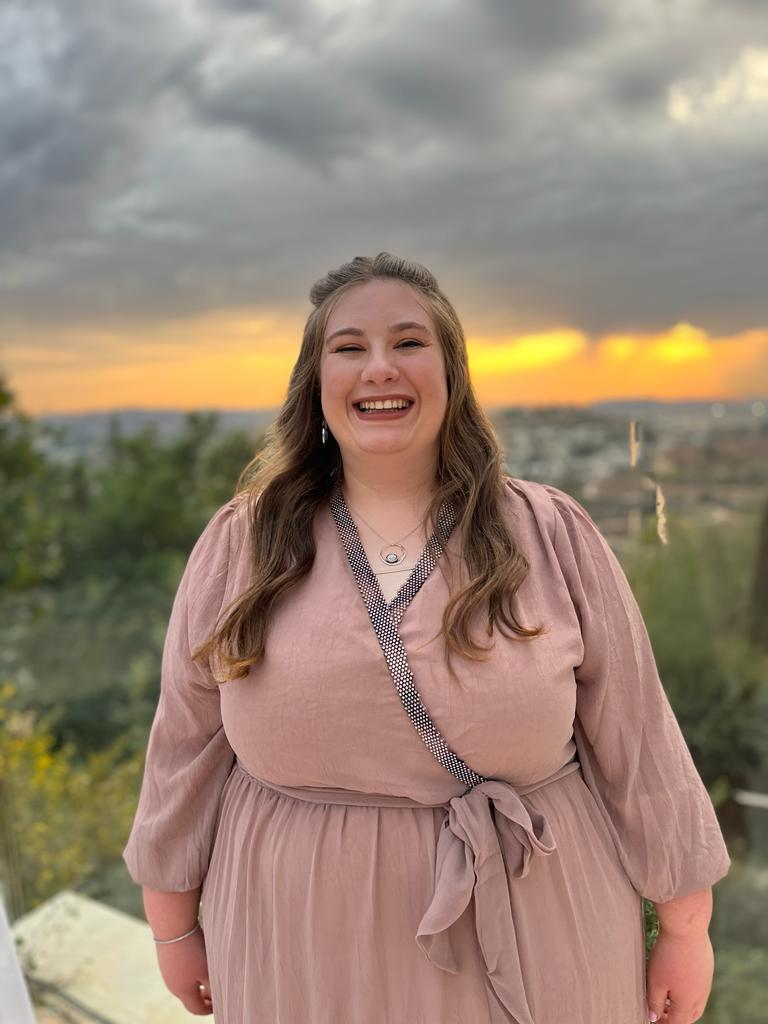
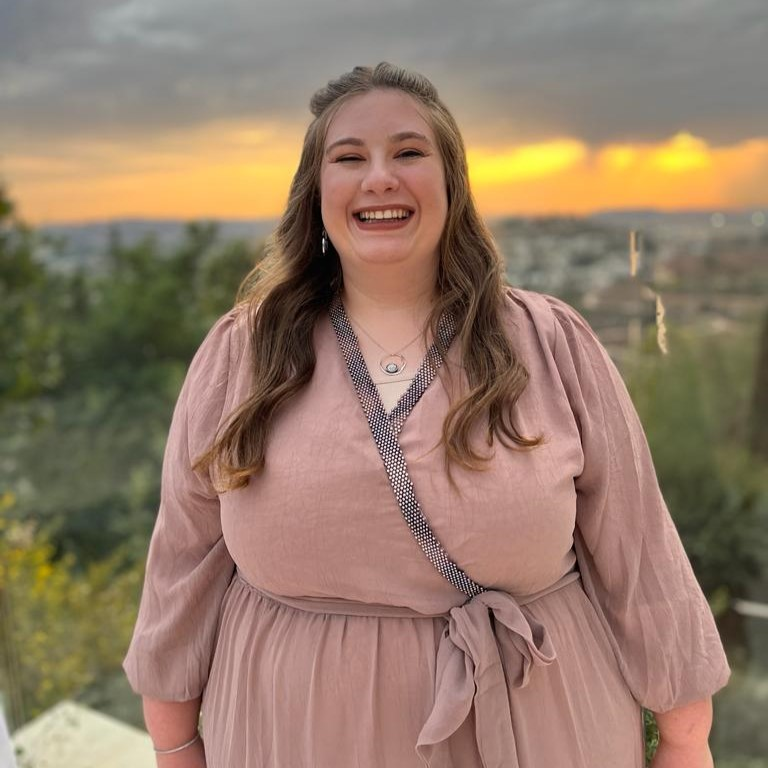
add my picture and about me

diff --git a/index.html b/index.html
@@ -34,9 +34,6 @@
         <div class="modal-content">
             <div class="modal-header">
                 <h5 class="modal-title" id="detailsModalLabel">Who is submitting</h5>
-                <button type="button" class="close" data-dismiss="modal" aria-label="Close">
-                    <span aria-hidden="true">&times;</span>
-                </button>
             </div>
             <div class="modal-body">
                 <p>Name: Yael Karat</p>
@@ -48,6 +45,24 @@
         </div>
     </div>
 </div>
+
+<div class="container">
+    <div class="row">
+        <div class="col-lg-3 col-md-4">
+            <img src="images/me.jpg" style="width:100%" alt="me">
+        </div>
+        <div class="col-lg-6 col-md-8">
+            <h4>1. About Me</h4>
+            <ul>
+                <li>Name: Yael Karat</li>
+                <li>Born: January 21, 2001</li>
+                <li><a href="https://www.linkedin.com/in/yael-karat-9320742a8/">LinkedIn</a></li>
+                <li><a href="https://github.com/Solange-s-Courses/ex2-bootstrap-neviim-yael-karat">GitHub</a></li>
+            </ul>
+        </div>
+    </div>
+</div>
+
 <script src="https://code.jquery.com/jquery-3.3.1.slim.min.js"></script>
 <script src="https://cdnjs.cloudflare.com/ajax/libs/popper.js/1.14.7/umd/popper.min.js"></script>
 <script src="https://stackpath.bootstrapcdn.com/bootstrap/4.3.1/js/bootstrap.min.js"></script>
